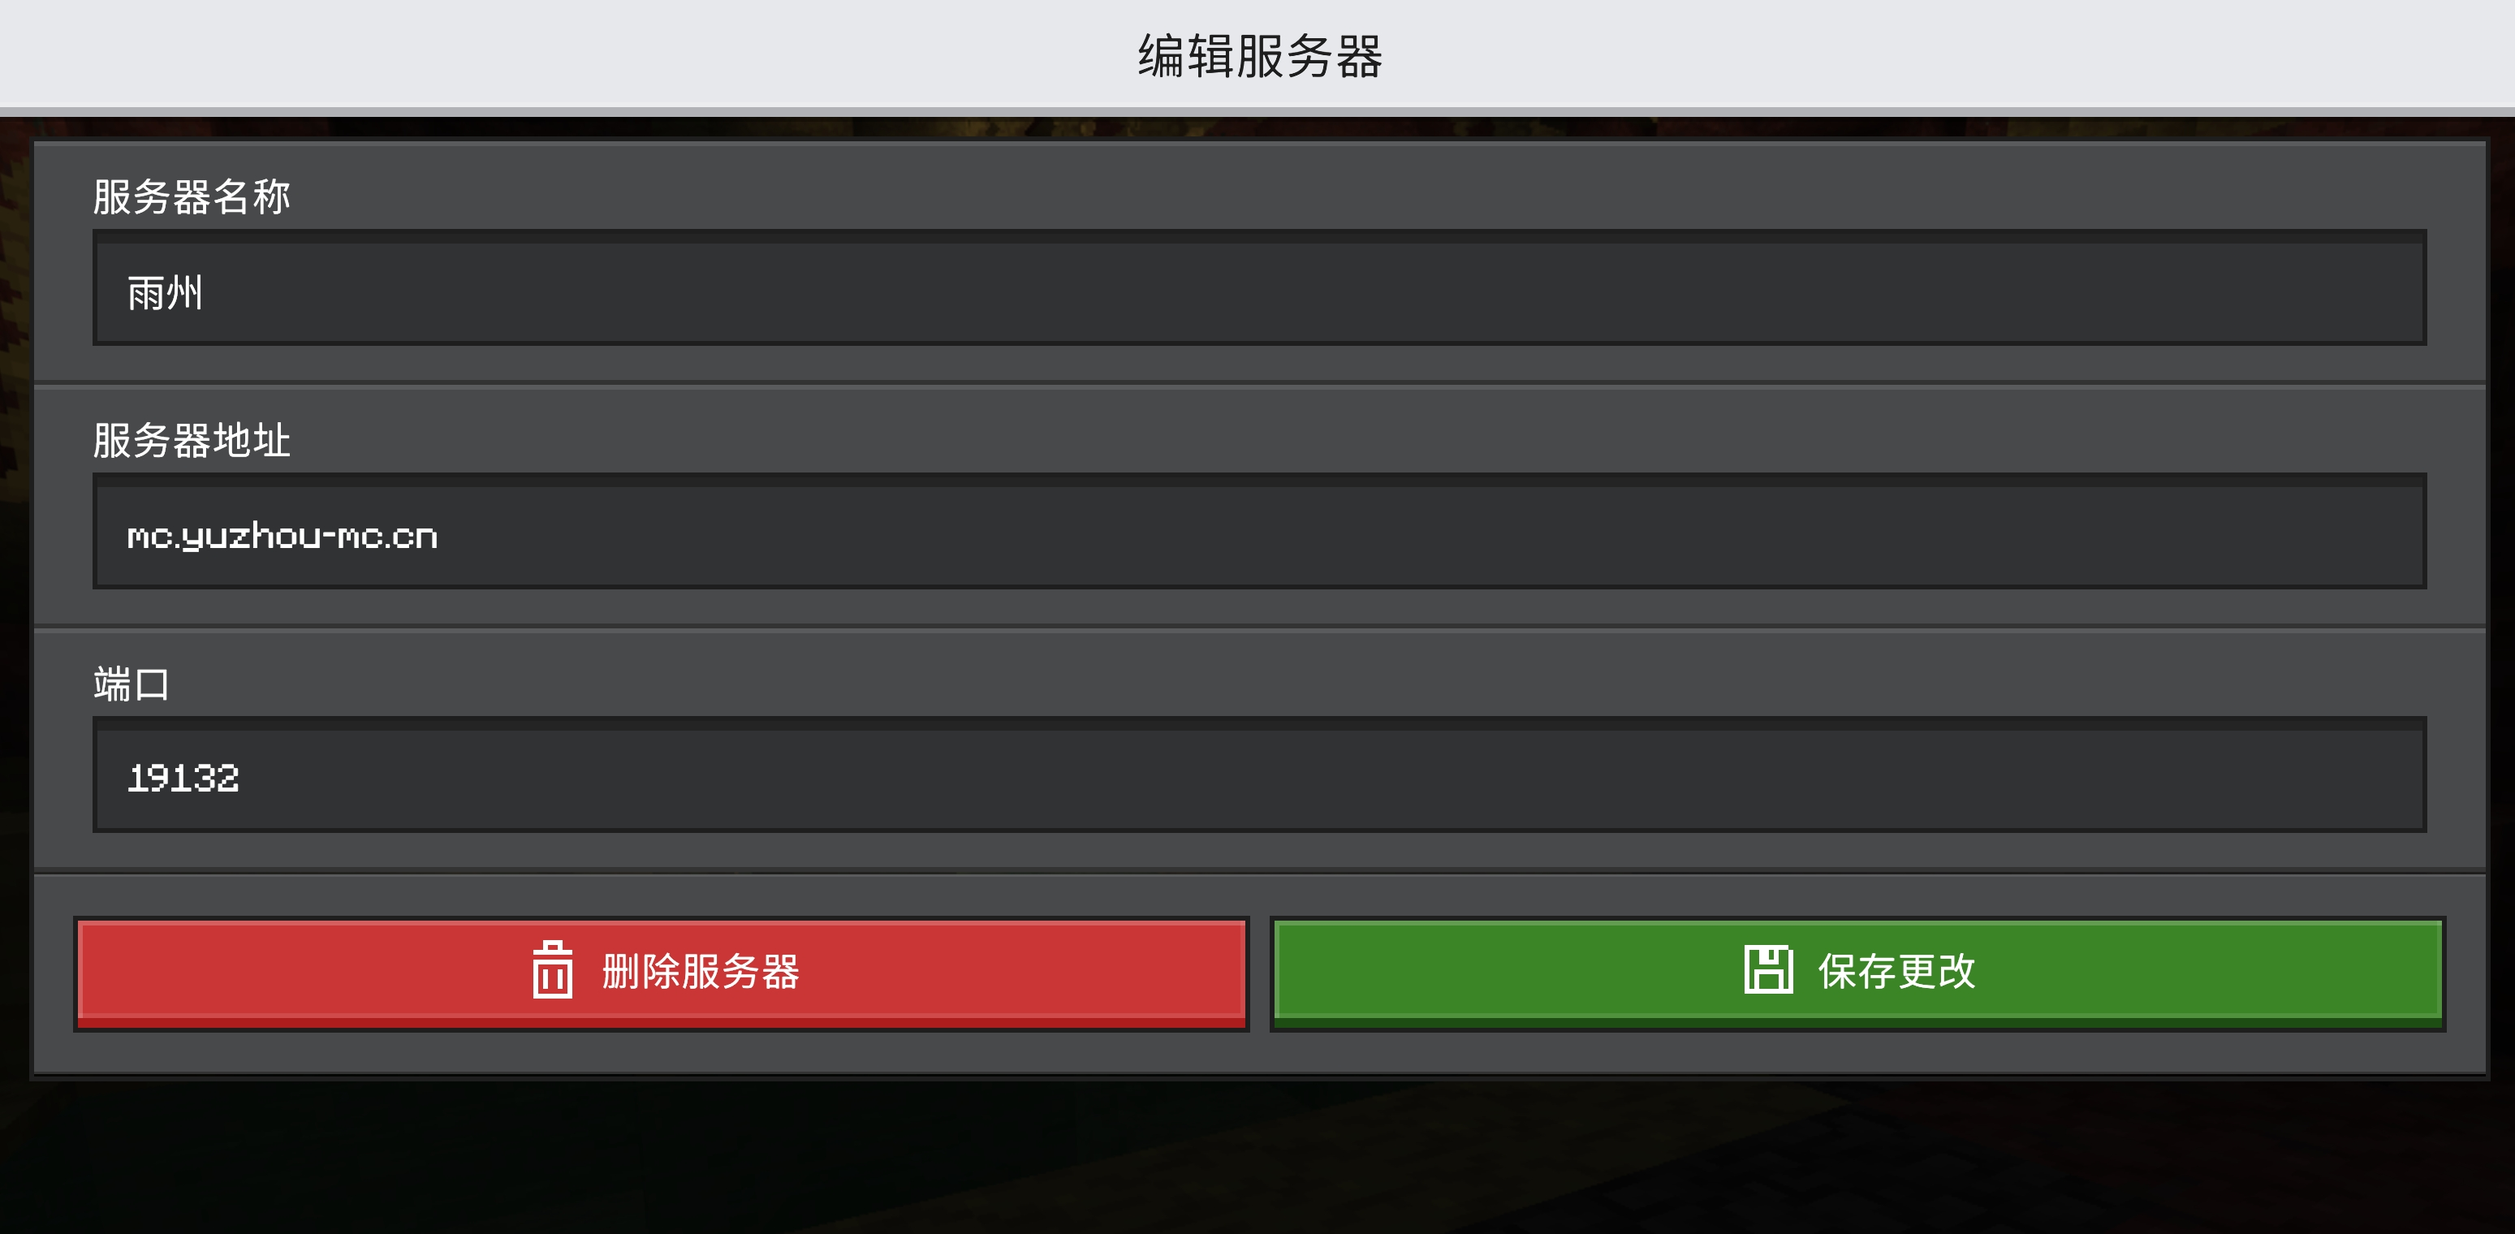
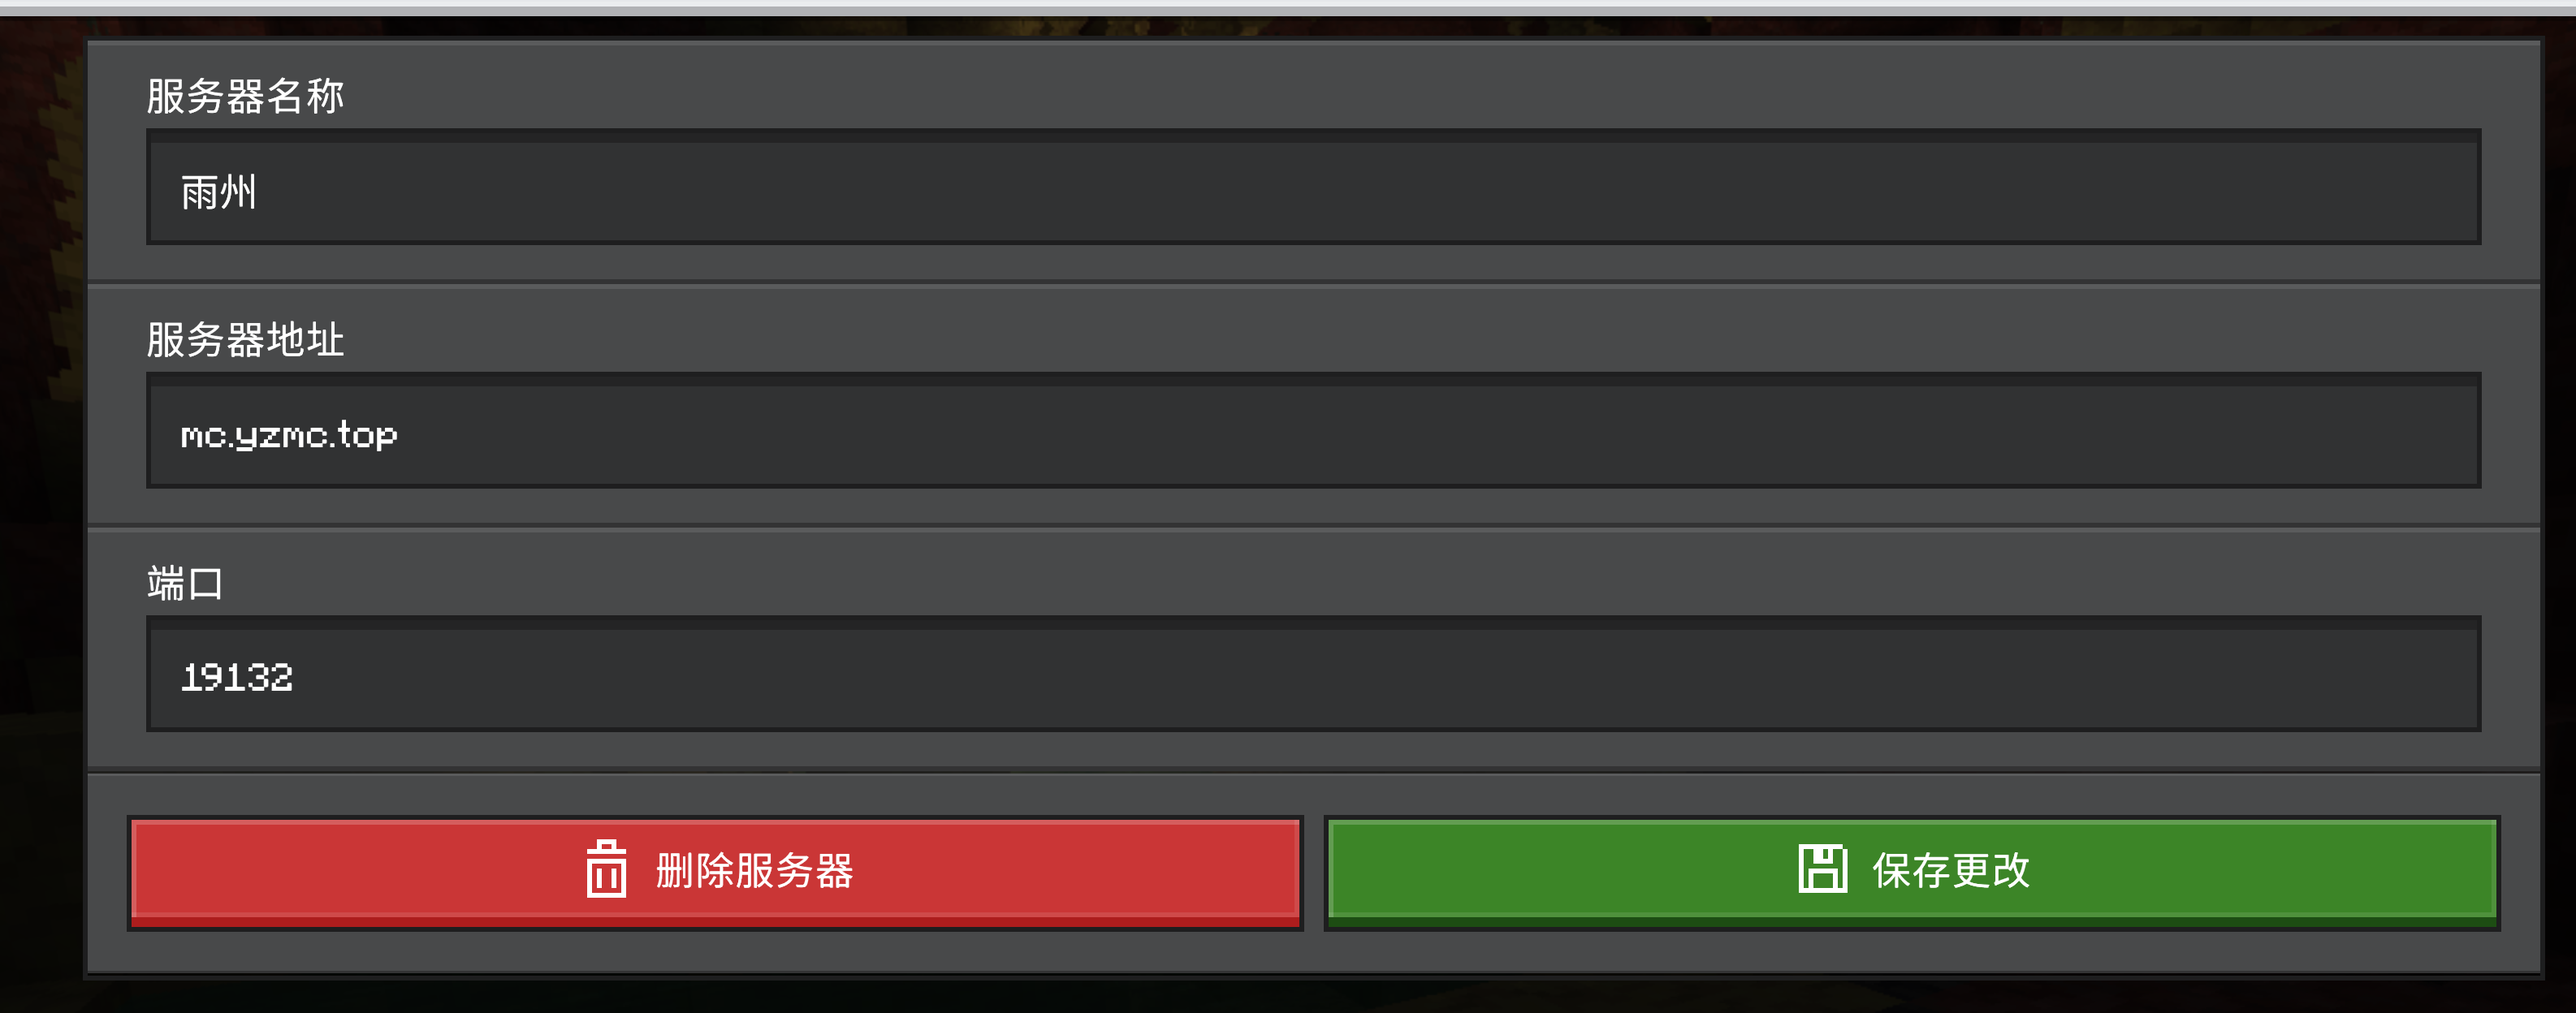
域名统一为 yzmc.top，更新加入指南图片

diff --git a/i18n.js b/i18n.js
@@ -23,7 +23,7 @@ const i18nData = {
     },
     error: { load: '加载失败' },
     loading: { alt: '雨州Minecraft加载中' },
-    banner: { deprecation: 'yuzhou.love 将于 10 月废弃，请使用 yuzhou-mc.cn 访问' },
+    banner: { deprecation: 'yuzhou.love 将于 10 月废弃，请使用 yzmc.top 访问' },
     lang: {
       auto: '跟随系统', zh: '中文', en: '英语', ja: '日语', ko: '韩语'
     },
@@ -60,11 +60,11 @@ const i18nData = {
     'join.section1': { title: 'Java版加入' },
     'join.step1.1': { title: '启动游戏', desc: '打开Minecraft Java版客户端，确保版本兼容' },
     'join.step1.2': { title: '多人游戏', desc: '点击主菜单的"多人游戏"选项' },
-    'join.step1.3': { title: '添加服务器', desc: '点击"添加服务器"，输入地址：mc.yuzhou-mc.cn' },
+    'join.step1.3': { title: '添加服务器', desc: '点击"添加服务器"，输入地址：mc.yzmc.top' },
     'join.section2': { title: '基岩版加入' },
     'join.step2.1': { title: '打开游戏', desc: '启动Minecraft基岩版（手机/主机/Windows）' },
     'join.step2.2': { title: '进入服务器', desc: '点击"游玩"→"服务器"→"添加服务器"' },
-    'join.step2.3': { title: '填写信息', desc: '地址：mc.yuzhou-mc.cn，端口：19132' },
+    'join.step2.3': { title: '填写信息', desc: '地址：mc.yzmc.top，端口：19132' },
     'about.page': { tag: 'ABOUT', title: '关于我们', desc: '联系我们，加入社区' },
     'about.section': { title: '联系方式' },
     'about.card1': { title: '服务器地址', btn: '复制地址' },
@@ -90,7 +90,7 @@ const i18nData = {
     },
     error: { load: 'Failed to Load' },
     loading: { alt: 'YuZhou Minecraft Loading' },
-    banner: { deprecation: 'yuzhou.love will be deprecated in October, please use yuzhou-mc.cn' },
+    banner: { deprecation: 'yuzhou.love will be deprecated in October, please use yzmc.top' },
     lang: {
       auto: 'Follow System', zh: 'Chinese', en: 'English', ja: 'Japanese', ko: 'Korean'
     },
@@ -127,11 +127,11 @@ const i18nData = {
     'join.section1': { title: 'Java Edition' },
     'join.step1.1': { title: 'Launch the Game', desc: 'Open the Minecraft Java Edition client and ensure version compatibility' },
     'join.step1.2': { title: 'Multiplayer', desc: 'Click the "Multiplayer" option on the main menu' },
-    'join.step1.3': { title: 'Add Server', desc: 'Click "Add Server" and enter the address: mc.yuzhou-mc.cn' },
+    'join.step1.3': { title: 'Add Server', desc: 'Click "Add Server" and enter the address: mc.yzmc.top' },
     'join.section2': { title: 'Bedrock Edition' },
     'join.step2.1': { title: 'Open the Game', desc: 'Launch Minecraft Bedrock Edition (mobile/console/Windows)' },
     'join.step2.2': { title: 'Join Server', desc: 'Click "Play" → "Servers" → "Add Server"' },
-    'join.step2.3': { title: 'Fill in Details', desc: 'Address: mc.yuzhou-mc.cn, Port: 19132' },
+    'join.step2.3': { title: 'Fill in Details', desc: 'Address: mc.yzmc.top, Port: 19132' },
     'about.page': { tag: 'ABOUT', title: 'About Us', desc: 'Contact us and join the community' },
     'about.section': { title: 'Contact Info' },
     'about.card1': { title: 'Server Address', btn: 'Copy Address' },
@@ -157,7 +157,7 @@ const i18nData = {
     },
     error: { load: '読み込みに失敗しました' },
     loading: { alt: '雨州Minecraft読み込み中' },
-    banner: { deprecation: 'yuzhou.love は 10 月に廃止されます。yuzhou-mc.cn をご利用ください' },
+    banner: { deprecation: 'yuzhou.love は 10 月に廃止されます。yzmc.top をご利用ください' },
     lang: {
       auto: 'システムに従う', zh: '中国語', en: '英語', ja: '日本語', ko: '韓国語'
     },
@@ -194,11 +194,11 @@ const i18nData = {
     'join.section1': { title: 'Java版' },
     'join.step1.1': { title: 'ゲームを起動', desc: 'Minecraft Java版クライアントを開き、バージョンの互換性を確認してください' },
     'join.step1.2': { title: 'マルチプレイ', desc: 'メインメニューの「マルチプレイ」オプションをクリック' },
-    'join.step1.3': { title: 'サーバーを追加', desc: '「サーバーを追加」をクリックし、アドレス mc.yuzhou-mc.cn を入力' },
+    'join.step1.3': { title: 'サーバーを追加', desc: '「サーバーを追加」をクリックし、アドレス mc.yzmc.top を入力' },
     'join.section2': { title: 'Bedrock版' },
     'join.step2.1': { title: 'ゲームを開く', desc: 'Minecraft Bedrock版を起動（スマホ/コンソール/Windows）' },
     'join.step2.2': { title: 'サーバーに参加', desc: '「プレイ」→「サーバー」→「サーバーを追加」をクリック' },
-    'join.step2.3': { title: '情報を入力', desc: 'アドレス：mc.yuzhou-mc.cn、ポート：19132' },
+    'join.step2.3': { title: '情報を入力', desc: 'アドレス：mc.yzmc.top、ポート：19132' },
     'about.page': { tag: '概要', title: '私たちについて', desc: 'お問い合わせ、コミュニティに参加' },
     'about.section': { title: 'お問い合わせ' },
     'about.card1': { title: 'サーバーアドレス', btn: 'アドレスをコピー' },
@@ -224,7 +224,7 @@ const i18nData = {
     },
     error: { load: '로딩 실패' },
     loading: { alt: 'YuZhou Minecraft 로딩 중' },
-    banner: { deprecation: 'yuzhou.love는 10월에 폐지됩니다. yuzhou-mc.cn을 사용해 주세요' },
+    banner: { deprecation: 'yuzhou.love는 10월에 폐지됩니다. yzmc.top을 사용해 주세요' },
     lang: {
       auto: '시스템 따르기', zh: '중국어', en: '영어', ja: '일본어', ko: '한국어'
     },
@@ -261,11 +261,11 @@ const i18nData = {
     'join.section1': { title: 'Java Edition' },
     'join.step1.1': { title: '게임 실행', desc: 'Minecraft Java Edition 클라이언트를 열고 버전 호환성을 확인하세요' },
     'join.step1.2': { title: '멀티플레이어', desc: '메인 메뉴의 "멀티플레이어" 옵션을 클릭하세요' },
-    'join.step1.3': { title: '서버 추가', desc: '"서버 추가"를 클릭하고 주소 mc.yuzhou-mc.cn를 입력하세요' },
+    'join.step1.3': { title: '서버 추가', desc: '"서버 추가"를 클릭하고 주소 mc.yzmc.top를 입력하세요' },
     'join.section2': { title: 'Bedrock Edition' },
     'join.step2.1': { title: '게임 열기', desc: 'Minecraft Bedrock Edition을 실행하세요 (모바일/콘솔/Windows)' },
     'join.step2.2': { title: '서버 접속', desc: '"플레이" → "서버" → "서버 추가"를 클릭하세요' },
-    'join.step2.3': { title: '정보 입력', desc: '주소: mc.yuzhou-mc.cn, 포트: 19132' },
+    'join.step2.3': { title: '정보 입력', desc: '주소: mc.yzmc.top, 포트: 19132' },
     'about.page': { tag: '소개', title: '저희 소개', desc: '문의하시고 커뮤니티에 참여하세요' },
     'about.section': { title: '연락처' },
     'about.card1': { title: '서버 주소', btn: '주소 복사' },

diff --git a/pages/join.html b/pages/join.html
@@ -26,7 +26,7 @@
                 <div class="step-card">
                     <div class="step-number">3</div>
                     <h3 data-i18n="join.step1.3.title">添加服务器</h3>
-                    <p data-i18n="join.step1.3.desc">点击"添加服务器"，输入地址：mc.yuzhou-mc.cn</p>
+                    <p data-i18n="join.step1.3.desc">点击"添加服务器"，输入地址：mc.yzmc.top</p>
                 </div>
             </div>
             <div class="join-image">
@@ -52,7 +52,7 @@
                 <div class="step-card">
                     <div class="step-number">3</div>
                     <h3 data-i18n="join.step2.3.title">填写信息</h3>
-                    <p data-i18n="join.step2.3.desc">地址：mc.yuzhou-mc.cn，端口：19132</p>
+                    <p data-i18n="join.step2.3.desc">地址：mc.yzmc.top，端口：19132</p>
                 </div>
             </div>
             <div class="join-image">

diff --git a/index.html b/index.html
@@ -17,7 +17,7 @@
     <!-- 废弃横幅 -->
     <div class="deprecation-banner" id="deprecationBanner">
       <i class="fas fa-exclamation-triangle banner-icon"></i>
-      <span class="banner-text" data-i18n="banner.deprecation">yuzhou.love 将于 10 月废弃，请使用 yuzhou-mc.cn 访问</span>
+      <span class="banner-text" data-i18n="banner.deprecation">yuzhou.love 将于 10 月废弃，请使用 yzmc.top 访问</span>
       <button class="banner-close" onclick="document.getElementById('deprecationBanner').remove()">&times;</button>
     </div>
 

diff --git a/pages/about.html b/pages/about.html
@@ -17,7 +17,7 @@
                     <i class="fas fa-server"></i>
                 </div>
                 <h3 data-i18n="about.card1.title">服务器地址</h3>
-                <div class="value">mc.yuzhou-mc.cn</div>
+                <div class="value">mc.yzmc.top</div>
                 <button class="btn btn-primary" onclick="copyIP()">
                     <i class="fas fa-copy"></i> <span data-i18n="about.card1.btn">复制地址</span>
                 </button>

diff --git a/pages/home.html b/pages/home.html
@@ -30,7 +30,7 @@
                     </div>
                     <div class="server-info-text">
                         <div class="server-info-label" data-i18n="server.address.label">服务器地址</div>
-                        <div class="server-info-value">mc.yuzhou-mc.cn</div>
+                        <div class="server-info-value">mc.yzmc.top</div>
                     </div>
                 </div>
                 <div class="server-info-card">

diff --git a/script.js b/script.js
@@ -16,7 +16,7 @@ function copyText(text, msg = '已复制到剪贴板！') {
     }
 }
 
-function copyIP() { copyText('mc.yuzhou-mc.cn', _('copy.success.ip')); }
+function copyIP() { copyText('mc.yzmc.top', _('copy.success.ip')); }
 function copyQQ() { copyText('823557774', _('copy.success.qq')); }
 
 function showToast(msg) {
